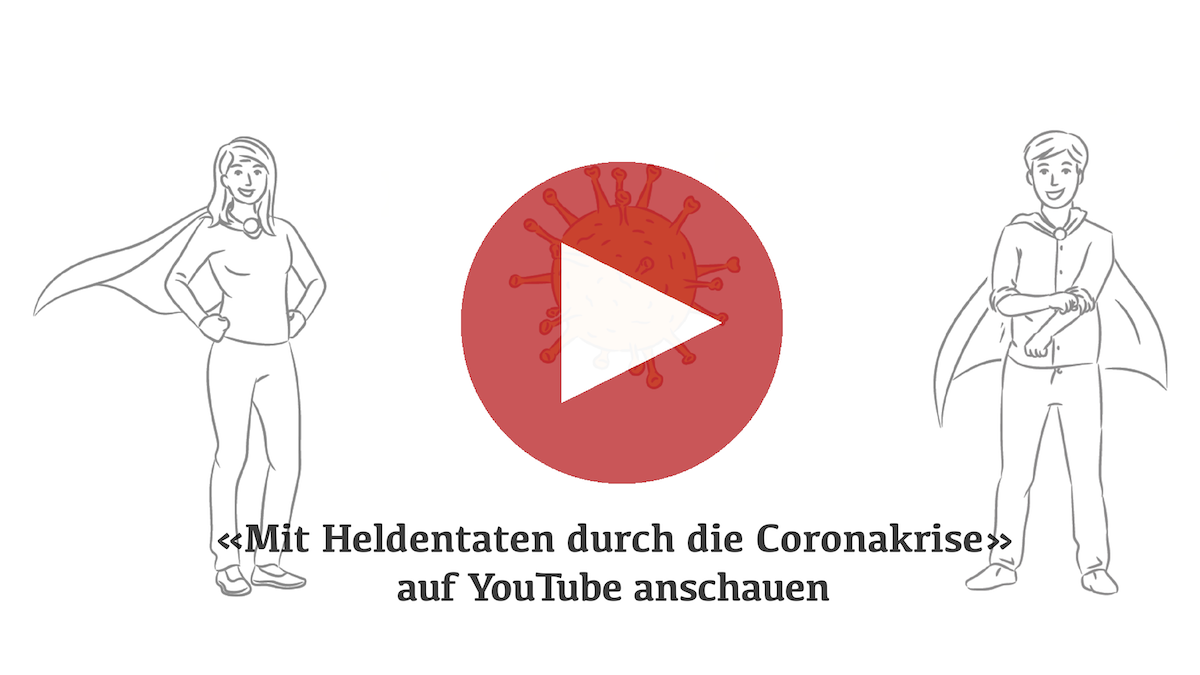
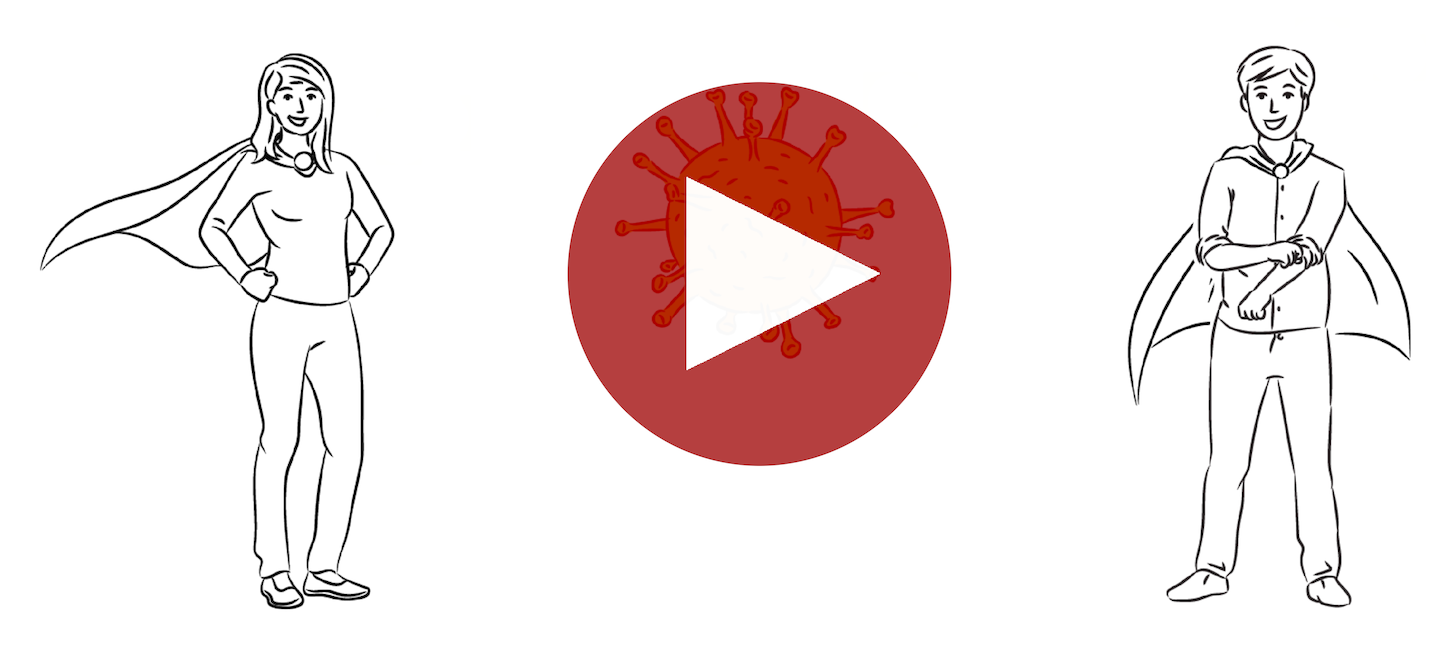
Polish YouKnow preview section

diff --git a/website/index.html b/website/index.html
@@ -194,6 +194,11 @@
           background: #f4f4f4e4;
         }
 
+        section#youknow div.description {
+          text-align: right;
+          padding-right: 0;
+        }
+
         section#plasma iframe {
           border: 0;
           height: 100%;
@@ -261,6 +266,9 @@
         section#youknow div.content {
           width: 100%;
           padding: 2rem 0;
+        }
+        section#youknow div.description {
+          padding: 0 2rem;
         }
 
         section#plasma {
@@ -473,19 +481,30 @@
 
       <section id="youknow">
         <div class="content">
-          <a href="javascript:loadYouKnowVideo()" id="youknow-placeholder"></a>
+          <div class="description" style="flex: 1;">
+            <h2>
+              Mit Heldentaten durch die Corona Pandemie
+            </h2>
+          </div>
+          <div style="flex: 5;">
+            <a href="javascript:loadYouKnowVideo()" id="youknow-placeholder"></a>
+          </div>
         </div>
         <script>
+          var youknowVidElem = $("#youknow-placeholder");
+          var youknowContentRatio = 2.1;
           function loadYouKnowVideo() {
             $('#youknow > div.content').html(
               '<iframe id="youknow-video" src="https://www.youtube-nocookie.com/embed/fyPF3RUv00A?html5=1&autoplay=1"' +
               '        allowfullscreen="1" frameborder="0" title="YouTube video player"' +
               '        allow="autoplay; picture-in-picture"></iframe>');
+            // On resize scale the new element with its 16/9 ratio.
+            youknowVidElem = $("#youknow-video");
+            youknowContentRatio = 1.78;
             fitVideoHeight();
           }
           function fitVideoHeight() {
-            var width = $("#youknow > div.content").width();
-            $("#youknow > div.content").height(width / 1.78);
+            youknowVidElem.height(youknowVidElem.width() / youknowContentRatio);
           }
           $(window).resize(fitVideoHeight);
           fitVideoHeight();
